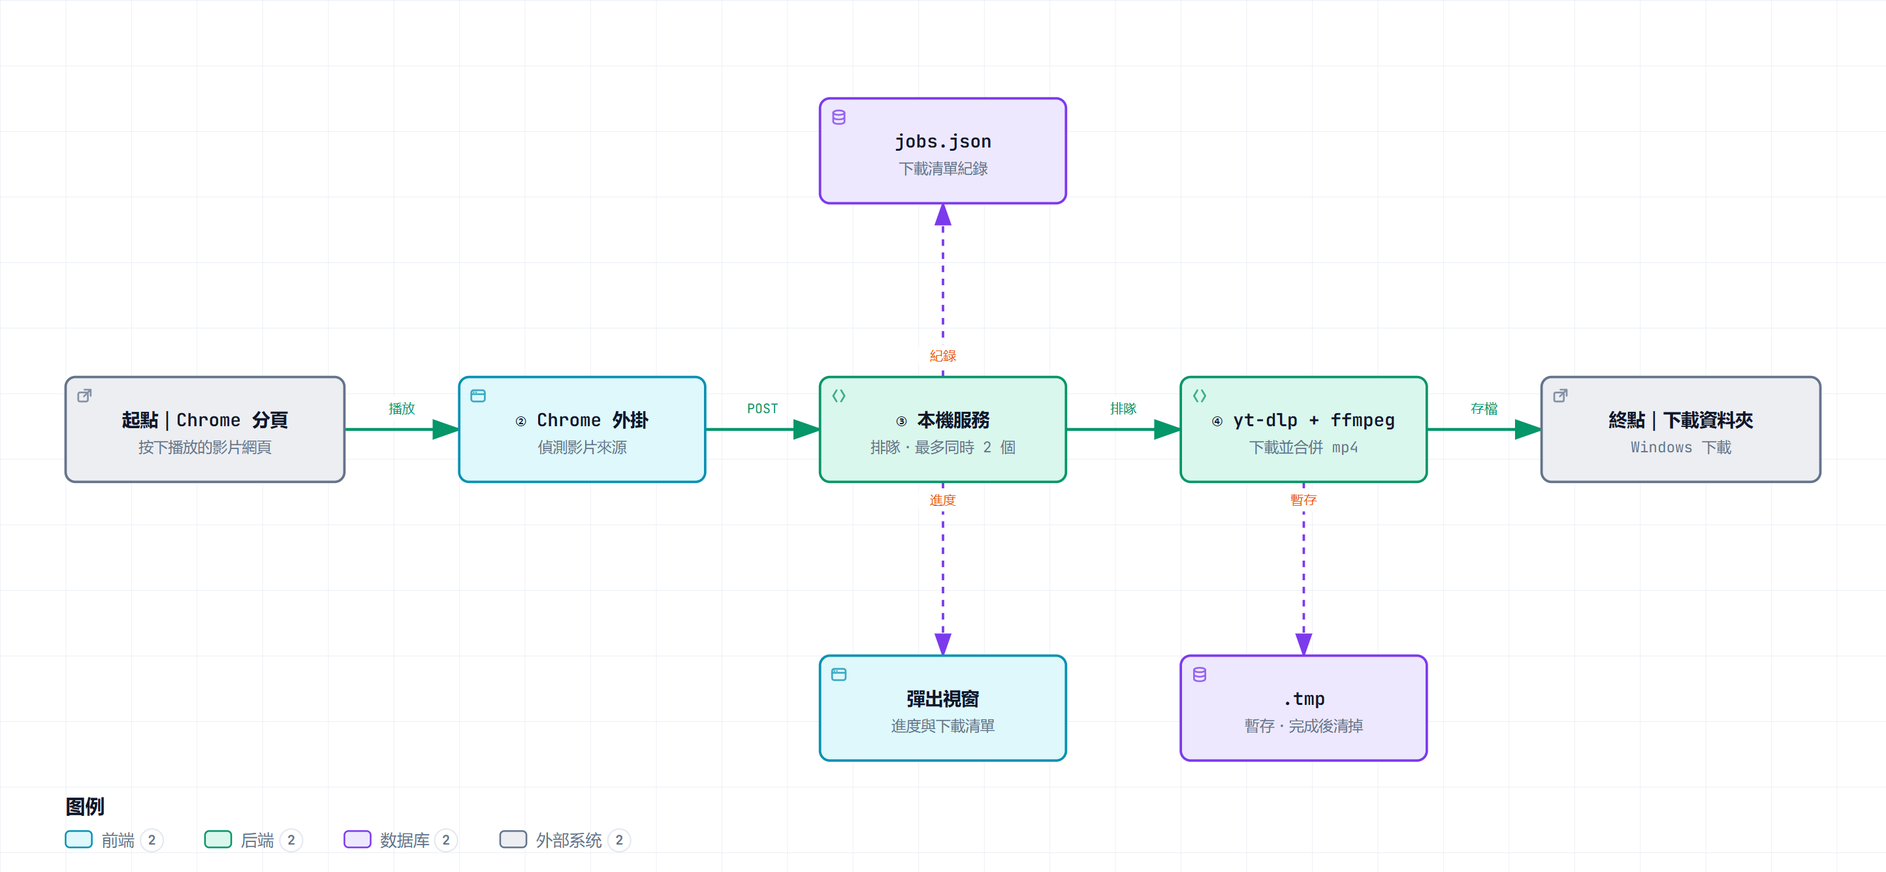
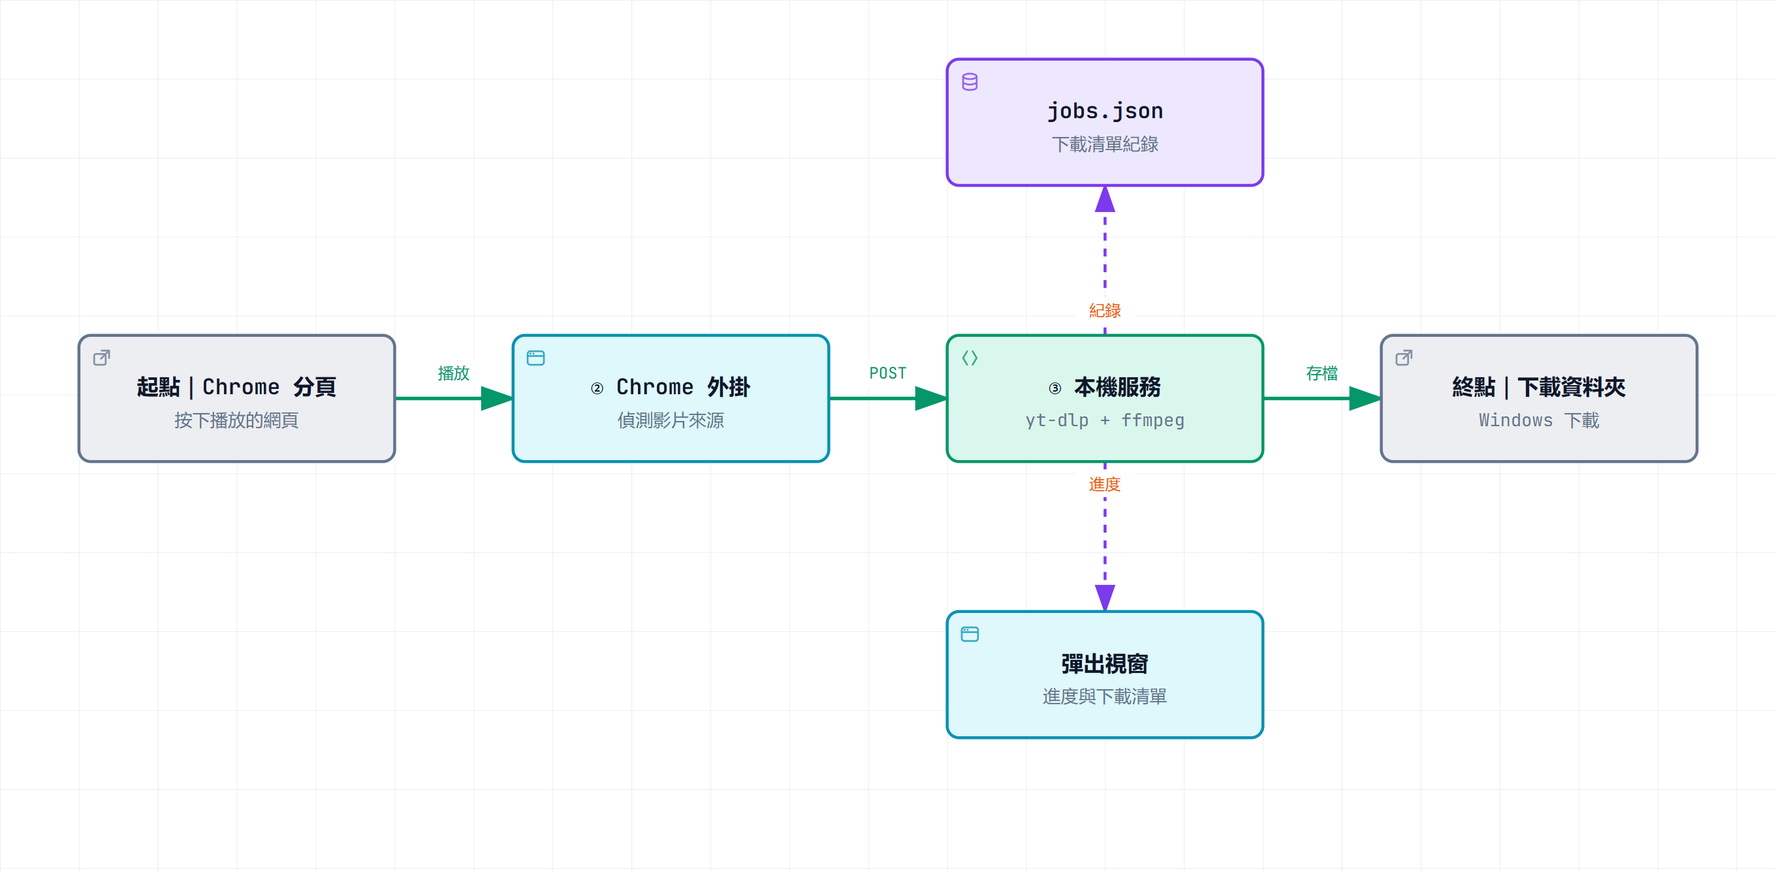
docs: narrower architecture diagram (900px viewBox), hide legend, merge yt-dlp into server node

diff --git a/docs/architecture.html b/docs/architecture.html
@@ -5004,7 +5004,7 @@
     <!-- Main Diagram -->
     <div class="diagram-container" data-detail-level="read"
          data-preset-badge-editorial-plate="ARCHIFY / 图版 04">
-      <svg viewBox="0 0 1150 532" role="img" lang="zh-CN" aria-labelledby="archify-diagram-title archify-diagram-description" data-preset="classic" data-quality-profile="showcase">
+      <svg viewBox="0 0 900 442" role="img" lang="zh-CN" aria-labelledby="archify-diagram-title archify-diagram-description" data-preset="classic" data-quality-profile="showcase">
         <title id="archify-diagram-title">網路影片下載：運作方式</title>
         <desc id="archify-diagram-description">由 Archify 生成的架构图。</desc>
         <!-- Definitions -->
@@ -5033,166 +5033,115 @@
 
 
         <!-- Connection paths (before components for correct z-order) -->
-        <path data-edge-from="page" data-edge-to="ext" data-edge-label="播放" data-edge-key="0" data-edge-id="page-to-ext" data-composition-points="210,262;280,262" d="M 210 262 L 280 262" class="a-emphasis" stroke-width="1.8" marker-end="url(#arrowhead-emphasis)"/>
-        <path data-edge-from="ext" data-edge-to="server" data-edge-label="POST" data-edge-key="1" data-edge-id="ext-to-server" data-composition-points="430,262;500,262" d="M 430 262 L 500 262" class="a-emphasis" stroke-width="1.8" marker-end="url(#arrowhead-emphasis)"/>
-        <path data-edge-from="server" data-edge-to="ytdlp" data-edge-label="排隊" data-edge-key="2" data-edge-id="server-to-ytdlp" data-composition-points="650,262;720,262" d="M 650 262 L 720 262" class="a-emphasis" stroke-width="1.8" marker-end="url(#arrowhead-emphasis)"/>
-        <path data-edge-from="ytdlp" data-edge-to="downloads" data-edge-label="存檔" data-edge-key="3" data-edge-id="ytdlp-to-downloads" data-composition-points="870,262;940,262" d="M 870 262 L 940 262" class="a-emphasis" stroke-width="1.8" marker-end="url(#arrowhead-emphasis)"/>
-        <path data-edge-from="server" data-edge-to="jobs" data-edge-label="紀錄" data-edge-key="4" data-edge-id="server-to-jobs" data-composition-points="575,230;575,124" d="M 575 230 L 575 124" class="a-dashed" stroke-width="1.5" marker-end="url(#arrowhead-dashed)"/>
-        <path data-edge-from="server" data-edge-to="popup" data-edge-label="進度" data-edge-key="5" data-edge-id="server-to-popup" data-composition-points="575,294;575,400" d="M 575 294 L 575 400" class="a-dashed" stroke-width="1.5" marker-end="url(#arrowhead-dashed)"/>
-        <path data-edge-from="ytdlp" data-edge-to="tmp" data-edge-label="暫存" data-edge-key="6" data-edge-id="ytdlp-to-tmp" data-composition-points="795,294;795,400" d="M 795 294 L 795 400" class="a-dashed" stroke-width="1.5" marker-end="url(#arrowhead-dashed)"/>
+        <path data-edge-from="page" data-edge-to="ext" data-edge-label="播放" data-edge-key="0" data-edge-id="page-to-ext" data-composition-points="200,202;260,202" d="M 200 202 L 260 202" class="a-emphasis" stroke-width="1.8" marker-end="url(#arrowhead-emphasis)"/>
+        <path data-edge-from="ext" data-edge-to="server" data-edge-label="POST" data-edge-key="1" data-edge-id="ext-to-server" data-composition-points="420,202;480,202" d="M 420 202 L 480 202" class="a-emphasis" stroke-width="1.8" marker-end="url(#arrowhead-emphasis)"/>
+        <path data-edge-from="server" data-edge-to="downloads" data-edge-label="存檔" data-edge-key="2" data-edge-id="server-to-downloads" data-composition-points="640,202;700,202" d="M 640 202 L 700 202" class="a-emphasis" stroke-width="1.8" marker-end="url(#arrowhead-emphasis)"/>
+        <path data-edge-from="server" data-edge-to="jobs" data-edge-label="紀錄" data-edge-key="3" data-edge-id="server-to-jobs" data-composition-points="560,170;560,94" d="M 560 170 L 560 94" class="a-dashed" stroke-width="1.5" marker-end="url(#arrowhead-dashed)"/>
+        <path data-edge-from="server" data-edge-to="popup" data-edge-label="進度" data-edge-key="4" data-edge-id="server-to-popup" data-composition-points="560,234;560,310" d="M 560 234 L 560 310" class="a-dashed" stroke-width="1.5" marker-end="url(#arrowhead-dashed)"/>
 
         <!-- Components -->
-        <g id="node-page" data-node-id="page" data-node-label="起點｜Chrome 分頁" tabindex="0" role="button" aria-label="聚焦起點｜Chrome 分頁，按下播放的影片網頁, 架构组件" aria-pressed="false" data-node-kind="external" data-node-sublabel="按下播放的影片網頁" data-node-context="架构组件">
-          <title>起點｜Chrome 分頁 · 按下播放的影片網頁 · 架构组件</title>
-          <rect x="40" y="230" width="170" height="64" rx="6" class="c-mask"/>
-          <rect x="40" y="230" width="170" height="64" rx="6" class="c-external" stroke-width="1.5"/>
-          <g aria-hidden="true" data-semantic-sigil="external" class="semantic-sigil s-external" transform="translate(46 236) scale(0.6875)">
+        <g id="node-page" data-node-id="page" data-node-label="起點｜Chrome 分頁" tabindex="0" role="button" aria-label="聚焦起點｜Chrome 分頁，按下播放的網頁, 架构组件" aria-pressed="false" data-node-kind="external" data-node-sublabel="按下播放的網頁" data-node-context="架构组件">
+          <title>起點｜Chrome 分頁 · 按下播放的網頁 · 架构组件</title>
+          <rect x="40" y="170" width="160" height="64" rx="6" class="c-mask"/>
+          <rect x="40" y="170" width="160" height="64" rx="6" class="c-external" stroke-width="1.5"/>
+          <g aria-hidden="true" data-semantic-sigil="external" class="semantic-sigil s-external" transform="translate(46 176) scale(0.6875)">
             <rect x="2.5" y="5" width="8.5" height="8" rx="1.5"/>
             <path d="M8 2.5h5.5V8M13.5 2.5 7.5 8.5"/>
           </g>
-          <text data-node-label="" data-detail-anchor="" x="125" y="260" class="t-primary" font-size="11" font-weight="600" text-anchor="middle">起點｜Chrome 分頁</text>
-        <text data-detail="context" x="125" y="276" class="t-muted" font-size="9" text-anchor="middle">按下播放的影片網頁</text>
+          <text data-node-label="" data-detail-anchor="" x="120" y="200" class="t-primary" font-size="11" font-weight="600" text-anchor="middle">起點｜Chrome 分頁</text>
+        <text data-detail="context" x="120" y="216" class="t-muted" font-size="9" text-anchor="middle">按下播放的網頁</text>
         </g>
 
         <g id="node-ext" data-node-id="ext" data-node-label="② Chrome 外掛" tabindex="0" role="button" aria-label="聚焦② Chrome 外掛，偵測影片來源, 架构组件" aria-pressed="false" data-node-kind="frontend" data-node-sublabel="偵測影片來源" data-node-context="架构组件">
           <title>② Chrome 外掛 · 偵測影片來源 · 架构组件</title>
-          <rect x="280" y="230" width="150" height="64" rx="6" class="c-mask"/>
-          <rect x="280" y="230" width="150" height="64" rx="6" class="c-frontend" stroke-width="1.5"/>
-          <g aria-hidden="true" data-semantic-sigil="frontend" class="semantic-sigil s-frontend" transform="translate(286 236) scale(0.6875)">
+          <rect x="260" y="170" width="160" height="64" rx="6" class="c-mask"/>
+          <rect x="260" y="170" width="160" height="64" rx="6" class="c-frontend" stroke-width="1.5"/>
+          <g aria-hidden="true" data-semantic-sigil="frontend" class="semantic-sigil s-frontend" transform="translate(266 176) scale(0.6875)">
             <rect x="2" y="3" width="12" height="10" rx="2"/>
             <path d="M2 6.5h12"/>
             <circle cx="4.1" cy="4.8" r=".7" class="sigil-fill"/>
             <circle cx="6.3" cy="4.8" r=".7" class="sigil-fill"/>
           </g>
-          <text data-node-label="" data-detail-anchor="" x="355" y="260" class="t-primary" font-size="11" font-weight="600" text-anchor="middle">② Chrome 外掛</text>
-        <text data-detail="context" x="355" y="276" class="t-muted" font-size="9" text-anchor="middle">偵測影片來源</text>
+          <text data-node-label="" data-detail-anchor="" x="340" y="200" class="t-primary" font-size="11" font-weight="600" text-anchor="middle">② Chrome 外掛</text>
+        <text data-detail="context" x="340" y="216" class="t-muted" font-size="9" text-anchor="middle">偵測影片來源</text>
         </g>
 
-        <g id="node-server" data-node-id="server" data-node-label="③ 本機服務" tabindex="0" role="button" aria-label="聚焦③ 本機服務，排隊・最多同時 2 個, 架构组件" aria-pressed="false" data-node-kind="backend" data-node-sublabel="排隊・最多同時 2 個" data-node-context="架构组件">
-          <title>③ 本機服務 · 排隊・最多同時 2 個 · 架构组件</title>
-          <rect x="500" y="230" width="150" height="64" rx="6" class="c-mask"/>
-          <rect x="500" y="230" width="150" height="64" rx="6" class="c-backend" stroke-width="1.5"/>
-          <g aria-hidden="true" data-semantic-sigil="backend" class="semantic-sigil s-backend" transform="translate(506 236) scale(0.6875)">
+        <g id="node-server" data-node-id="server" data-node-label="③ 本機服務" tabindex="0" role="button" aria-label="聚焦③ 本機服務，yt-dlp + ffmpeg, 架构组件" aria-pressed="false" data-node-kind="backend" data-node-sublabel="yt-dlp + ffmpeg" data-node-context="架构组件">
+          <title>③ 本機服務 · yt-dlp + ffmpeg · 架构组件</title>
+          <rect x="480" y="170" width="160" height="64" rx="6" class="c-mask"/>
+          <rect x="480" y="170" width="160" height="64" rx="6" class="c-backend" stroke-width="1.5"/>
+          <g aria-hidden="true" data-semantic-sigil="backend" class="semantic-sigil s-backend" transform="translate(486 176) scale(0.6875)">
             <path d="M6 3 3 8l3 5M10 3l3 5-3 5"/>
           </g>
-          <text data-node-label="" data-detail-anchor="" x="575" y="260" class="t-primary" font-size="11" font-weight="600" text-anchor="middle">③ 本機服務</text>
-        <text data-detail="context" x="575" y="276" class="t-muted" font-size="9" text-anchor="middle">排隊・最多同時 2 個</text>
-        </g>
-
-        <g id="node-ytdlp" data-node-id="ytdlp" data-node-label="④ yt-dlp + ffmpeg" tabindex="0" role="button" aria-label="聚焦④ yt-dlp + ffmpeg，下載並合併 mp4, 架构组件" aria-pressed="false" data-node-kind="backend" data-node-sublabel="下載並合併 mp4" data-node-context="架构组件">
-          <title>④ yt-dlp + ffmpeg · 下載並合併 mp4 · 架构组件</title>
-          <rect x="720" y="230" width="150" height="64" rx="6" class="c-mask"/>
-          <rect x="720" y="230" width="150" height="64" rx="6" class="c-backend" stroke-width="1.5"/>
-          <g aria-hidden="true" data-semantic-sigil="backend" class="semantic-sigil s-backend" transform="translate(726 236) scale(0.6875)">
-            <path d="M6 3 3 8l3 5M10 3l3 5-3 5"/>
-          </g>
-          <text data-node-label="" data-detail-anchor="" x="795" y="260" class="t-primary" font-size="11" font-weight="600" text-anchor="middle">④ yt-dlp + ffmpeg</text>
-        <text data-detail="context" x="795" y="276" class="t-muted" font-size="9" text-anchor="middle">下載並合併 mp4</text>
+          <text data-node-label="" data-detail-anchor="" x="560" y="200" class="t-primary" font-size="11" font-weight="600" text-anchor="middle">③ 本機服務</text>
+        <text data-detail="context" x="560" y="216" class="t-muted" font-size="9" text-anchor="middle">yt-dlp + ffmpeg</text>
         </g>
 
         <g id="node-downloads" data-node-id="downloads" data-node-label="終點｜下載資料夾" tabindex="0" role="button" aria-label="聚焦終點｜下載資料夾，Windows 下載, 架构组件" aria-pressed="false" data-node-kind="external" data-node-sublabel="Windows 下載" data-node-context="架构组件">
           <title>終點｜下載資料夾 · Windows 下載 · 架构组件</title>
-          <rect x="940" y="230" width="170" height="64" rx="6" class="c-mask"/>
-          <rect x="940" y="230" width="170" height="64" rx="6" class="c-external" stroke-width="1.5"/>
-          <g aria-hidden="true" data-semantic-sigil="external" class="semantic-sigil s-external" transform="translate(946 236) scale(0.6875)">
+          <rect x="700" y="170" width="160" height="64" rx="6" class="c-mask"/>
+          <rect x="700" y="170" width="160" height="64" rx="6" class="c-external" stroke-width="1.5"/>
+          <g aria-hidden="true" data-semantic-sigil="external" class="semantic-sigil s-external" transform="translate(706 176) scale(0.6875)">
             <rect x="2.5" y="5" width="8.5" height="8" rx="1.5"/>
             <path d="M8 2.5h5.5V8M13.5 2.5 7.5 8.5"/>
           </g>
-          <text data-node-label="" data-detail-anchor="" x="1025" y="260" class="t-primary" font-size="11" font-weight="600" text-anchor="middle">終點｜下載資料夾</text>
-        <text data-detail="context" x="1025" y="276" class="t-muted" font-size="9" text-anchor="middle">Windows 下載</text>
+          <text data-node-label="" data-detail-anchor="" x="780" y="200" class="t-primary" font-size="11" font-weight="600" text-anchor="middle">終點｜下載資料夾</text>
+        <text data-detail="context" x="780" y="216" class="t-muted" font-size="9" text-anchor="middle">Windows 下載</text>
         </g>
 
         <g id="node-jobs" data-node-id="jobs" data-node-label="jobs.json" tabindex="0" role="button" aria-label="聚焦jobs.json，下載清單紀錄, 架构组件" aria-pressed="false" data-node-kind="database" data-node-sublabel="下載清單紀錄" data-node-context="架构组件">
           <title>jobs.json · 下載清單紀錄 · 架构组件</title>
-          <rect x="500" y="60" width="150" height="64" rx="6" class="c-mask"/>
-          <rect x="500" y="60" width="150" height="64" rx="6" class="c-database" stroke-width="1.5"/>
-          <g aria-hidden="true" data-semantic-sigil="database" class="semantic-sigil s-database" transform="translate(506 66) scale(0.6875)">
+          <rect x="480" y="30" width="160" height="64" rx="6" class="c-mask"/>
+          <rect x="480" y="30" width="160" height="64" rx="6" class="c-database" stroke-width="1.5"/>
+          <g aria-hidden="true" data-semantic-sigil="database" class="semantic-sigil s-database" transform="translate(486 36) scale(0.6875)">
             <ellipse cx="8" cy="4" rx="5" ry="2"/>
             <path d="M3 4v8c0 1.1 2.2 2 5 2s5-.9 5-2V4M3 8c0 1.1 2.2 2 5 2s5-.9 5-2"/>
           </g>
-          <text data-node-label="" data-detail-anchor="" x="575" y="90" class="t-primary" font-size="11" font-weight="600" text-anchor="middle">jobs.json</text>
-        <text data-detail="context" x="575" y="106" class="t-muted" font-size="9" text-anchor="middle">下載清單紀錄</text>
+          <text data-node-label="" data-detail-anchor="" x="560" y="60" class="t-primary" font-size="11" font-weight="600" text-anchor="middle">jobs.json</text>
+        <text data-detail="context" x="560" y="76" class="t-muted" font-size="9" text-anchor="middle">下載清單紀錄</text>
         </g>
 
         <g id="node-popup" data-node-id="popup" data-node-label="彈出視窗" tabindex="0" role="button" aria-label="聚焦彈出視窗，進度與下載清單, 架构组件" aria-pressed="false" data-node-kind="frontend" data-node-sublabel="進度與下載清單" data-node-context="架构组件">
           <title>彈出視窗 · 進度與下載清單 · 架构组件</title>
-          <rect x="500" y="400" width="150" height="64" rx="6" class="c-mask"/>
-          <rect x="500" y="400" width="150" height="64" rx="6" class="c-frontend" stroke-width="1.5"/>
-          <g aria-hidden="true" data-semantic-sigil="frontend" class="semantic-sigil s-frontend" transform="translate(506 406) scale(0.6875)">
+          <rect x="480" y="310" width="160" height="64" rx="6" class="c-mask"/>
+          <rect x="480" y="310" width="160" height="64" rx="6" class="c-frontend" stroke-width="1.5"/>
+          <g aria-hidden="true" data-semantic-sigil="frontend" class="semantic-sigil s-frontend" transform="translate(486 316) scale(0.6875)">
             <rect x="2" y="3" width="12" height="10" rx="2"/>
             <path d="M2 6.5h12"/>
             <circle cx="4.1" cy="4.8" r=".7" class="sigil-fill"/>
             <circle cx="6.3" cy="4.8" r=".7" class="sigil-fill"/>
           </g>
-          <text data-node-label="" data-detail-anchor="" x="575" y="430" class="t-primary" font-size="11" font-weight="600" text-anchor="middle">彈出視窗</text>
-        <text data-detail="context" x="575" y="446" class="t-muted" font-size="9" text-anchor="middle">進度與下載清單</text>
-        </g>
-
-        <g id="node-tmp" data-node-id="tmp" data-node-label=".tmp" tabindex="0" role="button" aria-label="聚焦.tmp，暫存・完成後清掉, 架构组件" aria-pressed="false" data-node-kind="database" data-node-sublabel="暫存・完成後清掉" data-node-context="架构组件">
-          <title>.tmp · 暫存・完成後清掉 · 架构组件</title>
-          <rect x="720" y="400" width="150" height="64" rx="6" class="c-mask"/>
-          <rect x="720" y="400" width="150" height="64" rx="6" class="c-database" stroke-width="1.5"/>
-          <g aria-hidden="true" data-semantic-sigil="database" class="semantic-sigil s-database" transform="translate(726 406) scale(0.6875)">
-            <ellipse cx="8" cy="4" rx="5" ry="2"/>
-            <path d="M3 4v8c0 1.1 2.2 2 5 2s5-.9 5-2V4M3 8c0 1.1 2.2 2 5 2s5-.9 5-2"/>
-          </g>
-          <text data-node-label="" data-detail-anchor="" x="795" y="430" class="t-primary" font-size="11" font-weight="600" text-anchor="middle">.tmp</text>
-        <text data-detail="context" x="795" y="446" class="t-muted" font-size="9" text-anchor="middle">暫存・完成後清掉</text>
+          <text data-node-label="" data-detail-anchor="" x="560" y="340" class="t-primary" font-size="11" font-weight="600" text-anchor="middle">彈出視窗</text>
+        <text data-detail="context" x="560" y="356" class="t-muted" font-size="9" text-anchor="middle">進度與下載清單</text>
         </g>
 
         <!-- Connection labels -->
         <g data-detail="context" data-edge-from="page" data-edge-to="ext" data-edge-label="播放" data-edge-key="0" data-edge-id="page-to-ext">
-          <rect x="230" y="242" width="30" height="14" rx="3" class="c-mask"/>
-          <text x="245" y="252" class="t-backend" font-size="8" text-anchor="middle">播放</text>
+          <rect x="215" y="182" width="30" height="14" rx="3" class="c-mask"/>
+          <text x="230" y="192" class="t-backend" font-size="8" text-anchor="middle">播放</text>
         </g>
         <g data-detail="context" data-edge-from="ext" data-edge-to="server" data-edge-label="POST" data-edge-key="1" data-edge-id="ext-to-server">
-          <rect x="450" y="242" width="30" height="14" rx="3" class="c-mask"/>
-          <text x="465" y="252" class="t-backend" font-size="8" text-anchor="middle">POST</text>
+          <rect x="435" y="182" width="30" height="14" rx="3" class="c-mask"/>
+          <text x="450" y="192" class="t-backend" font-size="8" text-anchor="middle">POST</text>
         </g>
-        <g data-detail="context" data-edge-from="server" data-edge-to="ytdlp" data-edge-label="排隊" data-edge-key="2" data-edge-id="server-to-ytdlp">
-          <rect x="670" y="242" width="30" height="14" rx="3" class="c-mask"/>
-          <text x="685" y="252" class="t-backend" font-size="8" text-anchor="middle">排隊</text>
+        <g data-detail="context" data-edge-from="server" data-edge-to="downloads" data-edge-label="存檔" data-edge-key="2" data-edge-id="server-to-downloads">
+          <rect x="655" y="182" width="30" height="14" rx="3" class="c-mask"/>
+          <text x="670" y="192" class="t-backend" font-size="8" text-anchor="middle">存檔</text>
         </g>
-        <g data-detail="context" data-edge-from="ytdlp" data-edge-to="downloads" data-edge-label="存檔" data-edge-key="3" data-edge-id="ytdlp-to-downloads">
-          <rect x="890" y="242" width="30" height="14" rx="3" class="c-mask"/>
-          <text x="905" y="252" class="t-backend" font-size="8" text-anchor="middle">存檔</text>
+        <g data-detail="context" data-edge-from="server" data-edge-to="jobs" data-edge-label="紀錄" data-edge-key="3" data-edge-id="server-to-jobs">
+          <rect x="545" y="150" width="30" height="14" rx="3" class="c-mask"/>
+          <text x="560" y="160" class="t-messagebus" font-size="8" text-anchor="middle">紀錄</text>
         </g>
-        <g data-detail="context" data-edge-from="server" data-edge-to="jobs" data-edge-label="紀錄" data-edge-key="4" data-edge-id="server-to-jobs">
-          <rect x="560" y="210" width="30" height="14" rx="3" class="c-mask"/>
-          <text x="575" y="220" class="t-messagebus" font-size="8" text-anchor="middle">紀錄</text>
-        </g>
-        <g data-detail="context" data-edge-from="server" data-edge-to="popup" data-edge-label="進度" data-edge-key="5" data-edge-id="server-to-popup">
-          <rect x="560" y="298" width="30" height="14" rx="3" class="c-mask"/>
-          <text x="575" y="308" class="t-messagebus" font-size="8" text-anchor="middle">進度</text>
-        </g>
-        <g data-detail="context" data-edge-from="ytdlp" data-edge-to="tmp" data-edge-label="暫存" data-edge-key="6" data-edge-id="ytdlp-to-tmp">
-          <rect x="780" y="298" width="30" height="14" rx="3" class="c-mask"/>
-          <text x="795" y="308" class="t-messagebus" font-size="8" text-anchor="middle">暫存</text>
+        <g data-detail="context" data-edge-from="server" data-edge-to="popup" data-edge-label="進度" data-edge-key="4" data-edge-id="server-to-popup">
+          <rect x="545" y="238" width="30" height="14" rx="3" class="c-mask"/>
+          <text x="560" y="248" class="t-messagebus" font-size="8" text-anchor="middle">進度</text>
         </g>
 
         <!-- Boundary labels (foreground masks keep routes out of titles) -->
 
 
         <!-- Legend -->
-        <g data-legend="" data-legend-bridge="">
-          <text x="40" y="496" class="t-primary" font-size="12" font-weight="650">图例</text>
-          <g data-legend-semantic-kind="frontend" data-legend-kind="frontend" data-legend-label="前端" data-legend-x="40" data-legend-baseline="516" data-legend-width="63">
-            <rect x="40" y="507" width="16" height="10" rx="2.5" class="c-frontend" stroke-width="1"/>
-            <text x="62" y="516" class="t-muted" font-size="10" font-weight="500">前端</text>
-          </g>
-          <g data-legend-semantic-kind="backend" data-legend-kind="backend" data-legend-label="后端" data-legend-x="125" data-legend-baseline="516" data-legend-width="63">
-            <rect x="125" y="507" width="16" height="10" rx="2.5" class="c-backend" stroke-width="1"/>
-            <text x="147" y="516" class="t-muted" font-size="10" font-weight="500">后端</text>
-          </g>
-          <g data-legend-semantic-kind="database" data-legend-kind="database" data-legend-label="数据库" data-legend-x="210" data-legend-baseline="516" data-legend-width="73">
-            <rect x="210" y="507" width="16" height="10" rx="2.5" class="c-database" stroke-width="1"/>
-            <text x="232" y="516" class="t-muted" font-size="10" font-weight="500">数据库</text>
-          </g>
-          <g data-legend-semantic-kind="external" data-legend-kind="external" data-legend-label="外部系统" data-legend-x="305" data-legend-baseline="516" data-legend-width="83">
-            <rect x="305" y="507" width="16" height="10" rx="2.5" class="c-external" stroke-width="1"/>
-            <text x="327" y="516" class="t-muted" font-size="10" font-weight="500">外部系统</text>
-          </g>
-        </g>
+
       </svg>
       <p class="intent-trace-status no-print" id="intent-trace-status" role="status" aria-live="polite" aria-atomic="true"></p>
       <div class="share-chapter-cue no-print" id="share-chapter-cue" hidden role="status" aria-live="polite">
